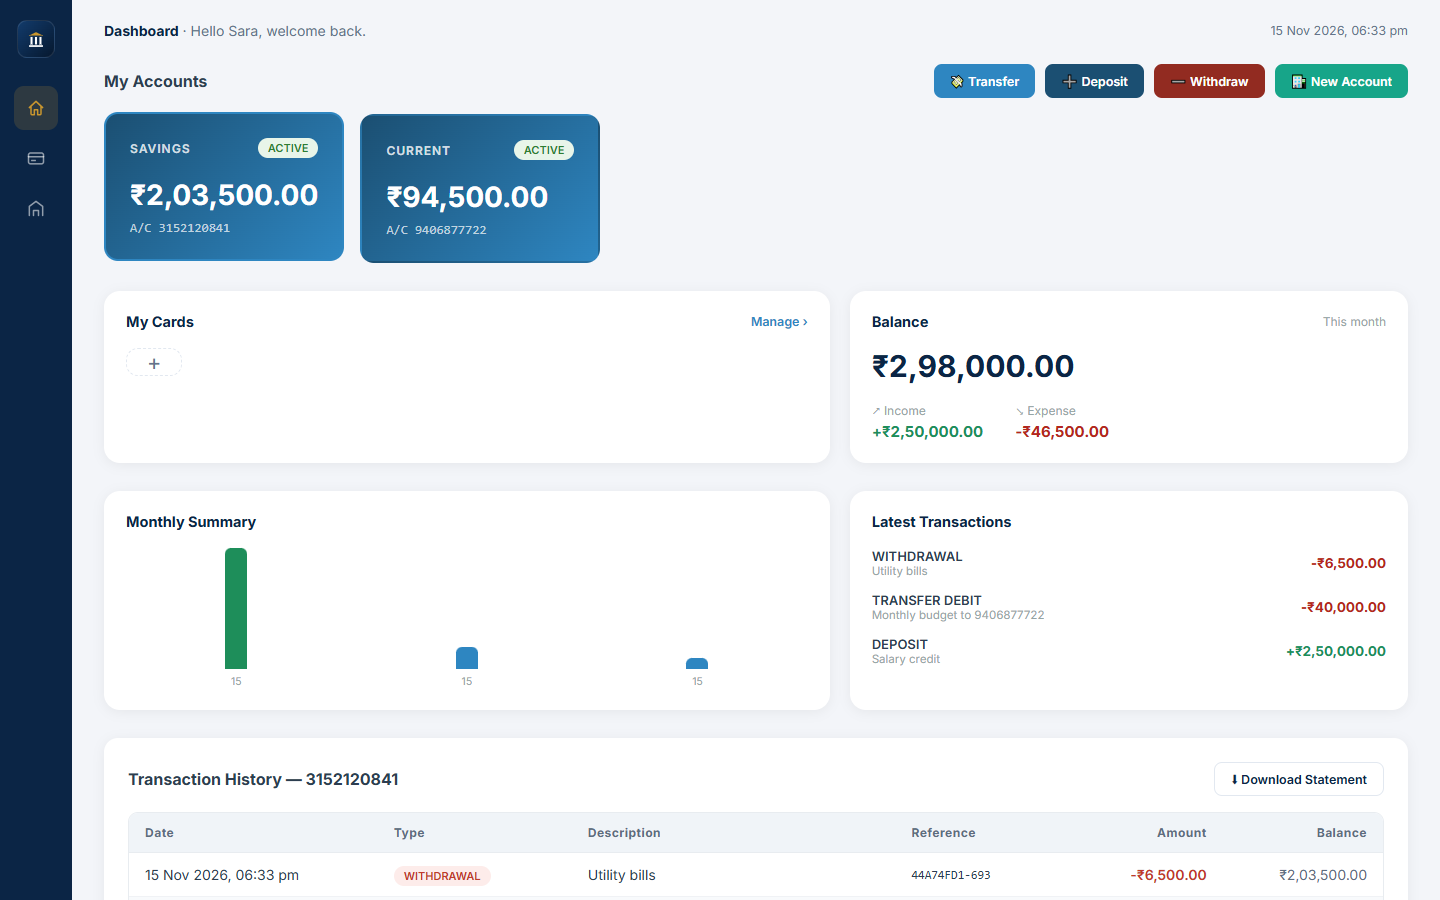
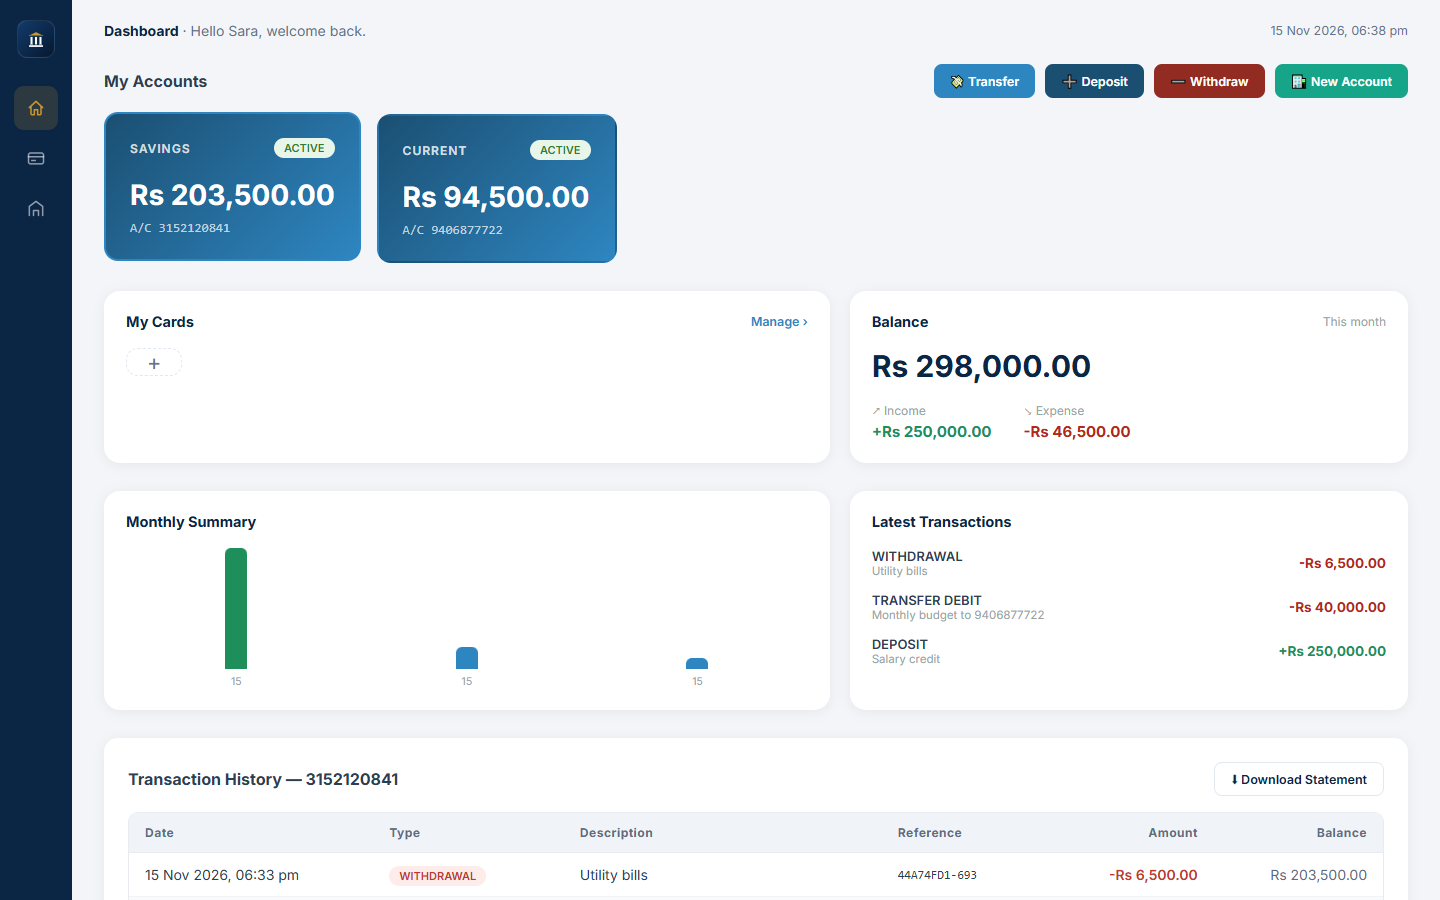
docs: add screenshots and CI workflow, remove live demo placeholder

diff --git a/banking-frontend/src/pages/Withdraw.jsx b/banking-frontend/src/pages/Withdraw.jsx
@@ -79,7 +79,7 @@ export default function Withdraw() {
               </select>
             </div>
             <div style={styles.field}>
-              <label style={styles.label}>Amount (₹)</label>
+              <label style={styles.label}>Amount (Rs)</label>
               <input
                 type="number" min="1" step="0.01"
                 placeholder="Enter amount"

diff --git a/banking-frontend/src/pages/Deposit.jsx b/banking-frontend/src/pages/Deposit.jsx
@@ -79,7 +79,7 @@ export default function Deposit() {
               </select>
             </div>
             <div style={styles.field}>
-              <label style={styles.label}>Amount (₹)</label>
+              <label style={styles.label}>Amount (Rs)</label>
               <input
                 type="number" min="1" step="0.01"
                 placeholder="Enter amount"

diff --git a/banking-frontend/src/pages/Transfer.jsx b/banking-frontend/src/pages/Transfer.jsx
@@ -91,7 +91,7 @@ export default function Transfer() {
               />
             </div>
             <div style={styles.field}>
-              <label style={styles.label}>Amount (₹)</label>
+              <label style={styles.label}>Amount (Rs)</label>
               <input
                 type="number" min="1" step="0.01"
                 placeholder="Enter amount"

diff --git a/banking-frontend/src/utils/formatCurrency.js b/banking-frontend/src/utils/formatCurrency.js
@@ -1,7 +1,7 @@
 export const formatCurrency = (amount) => {
-  return new Intl.NumberFormat('en-IN', {
+  return new Intl.NumberFormat('en-PK', {
     style: 'currency',
-    currency: 'INR',
+    currency: 'PKR',
     minimumFractionDigits: 2,
   }).format(amount)
 }
